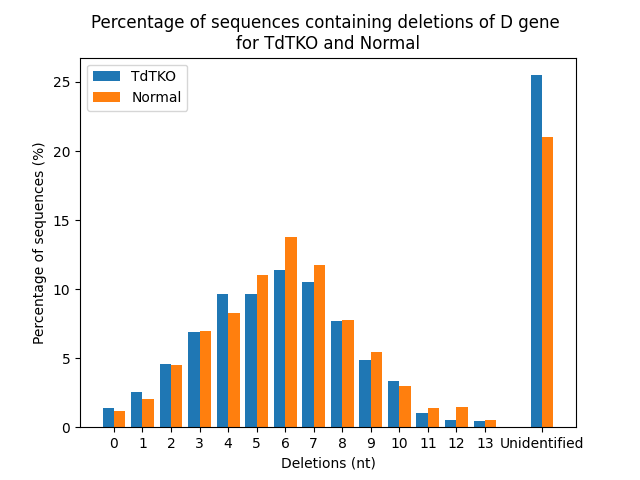
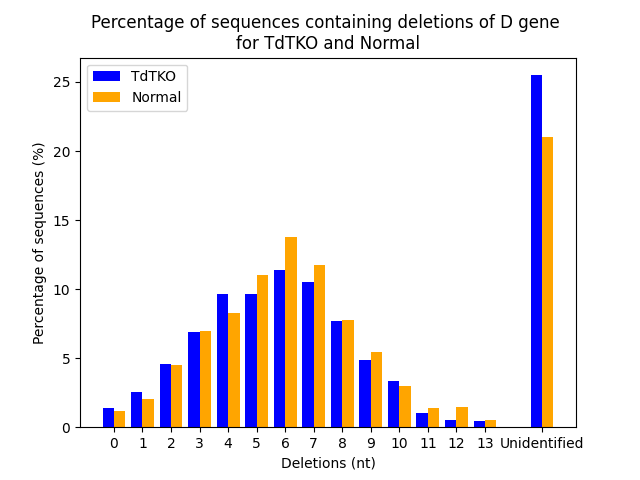
Altered the deletion plots

Changed region(s): [[0.1562, 0.4688, 0.7812, 0.9062], [0.8125, 0.1562, 0.875, 0.9062], [0.125, 0.125, 0.1875, 0.2188]]

diff --git a/code/plots.py b/code/plots.py
@@ -142,12 +142,13 @@ def plot_deletions(x_points_list, y_points_list, labels, ticks, title, outfile):
     plt.figure()
     x = x_points_list[0]
     x.extend(x_points_list[1])
-    x = numpy.asarray(list(set(x)))
+    x = set(x)
+    x = numpy.asarray([e for e in x if e <= 13])
     width = 0.40
-    y_points, label = y_points_list[0], labels[0]
-    plt.bar(x-0.2, y_points, width=width, label=label)
-    y_points, label = y_points_list[1], labels[1]
-    plt.bar(x+0.2, y_points, width=width, label=label)
+    y_points, label = [y for y in y_points_list[0] if y_points_list[0].index(y) <= 13], labels[0]
+    plt.bar(x-0.2, y_points, width=width, label=label, color='blue')
+    y_points, label = [y for y in y_points_list[1] if y_points_list[1].index(y) <= 13], labels[1]
+    plt.bar(x+0.2, y_points, width=width, label=label, color='orange')
     plt.xticks(ticks)
     plt.title(title)
     plt.xlabel('Deletions (nt)')
@@ -164,9 +165,9 @@ def plot_d_deletions(x_points_list, y_points_list, labels, title, outfile):
     x = numpy.asarray(list(set(x)))
     width = 0.40
     y_points, label = y_points_list[0], labels[0]
-    plt.bar(x-0.2, y_points, width=width, label=label)
+    plt.bar(x-0.2, y_points, width=width, label=label, color='blue')
     y_points, label = y_points_list[1], labels[1]
-    plt.bar(x+0.2, y_points, width=width, label=label)
+    plt.bar(x+0.2, y_points, width=width, label=label, color='orange')
     ticks = list(x)
     tick_labels = [e for e in ticks]
     tick_labels[-1] = 'Unidentified'

diff --git a/code/calculate_deletions.py b/code/calculate_deletions.py
@@ -81,7 +81,7 @@ if __name__ == '__main__':
 
     out = f'C:\\Users\\gabev\\PycharmProjects\\MRP_TdTKO_mice\\img\\deletion_size_V_TdTKO-Normal.png'
     title = 'Percentage of sequences containing deletions of V gene \nfor TdTKO and Normal'
-    ticks = list(numpy.arange(18))
+    ticks = list(numpy.arange(14))
     plot_deletions(x, y, ['TdTKO', 'Normal'], ticks, title, out)
 
     x = []
@@ -94,7 +94,7 @@ if __name__ == '__main__':
     y.append([jdel_nor[e] / total_nor * 100 for e in sorted(jdel_nor.keys())])
     out = f'C:\\Users\\gabev\\PycharmProjects\\MRP_TdTKO_mice\\img\\deletion_size_J_TdTKO-Normal.png'
     title = 'Percentage of sequences containing deletions of J gene \nfor TdTKO and Normal'
-    ticks = list(numpy.arange(24))
+    ticks = list(numpy.arange(14))
     plot_deletions(x, y, ['TdTKO', 'Normal'], ticks, title, out)
 
     # ----
